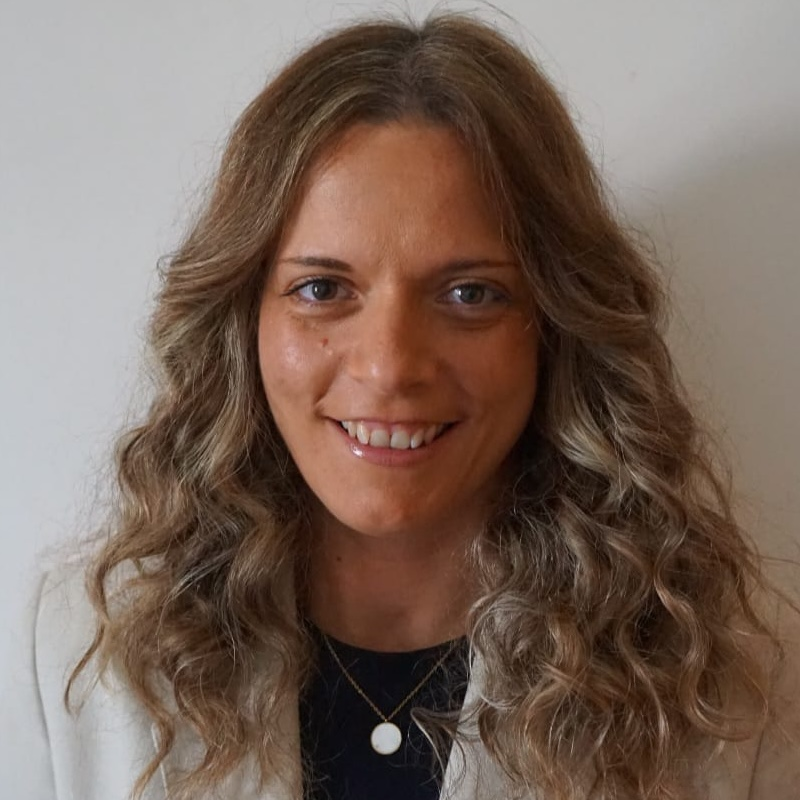
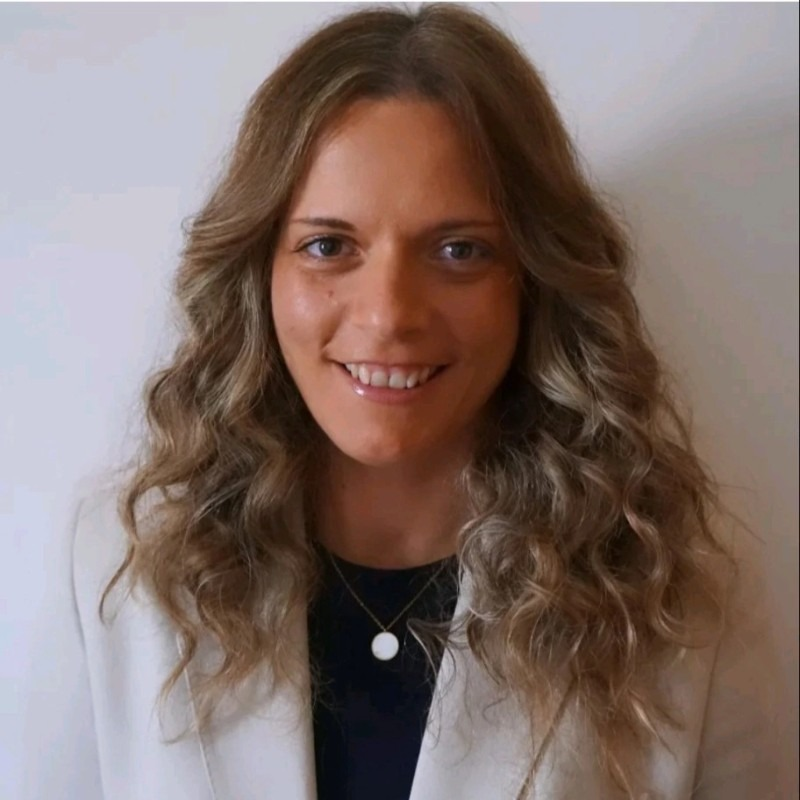
mentores

diff --git a/index.html b/index.html
@@ -235,10 +235,287 @@
 
 
   <!-- Secção Mentores -->
-  <div class="mentors-section" id="mentors">
-    <h1 style="color: #01301F; text-align: center; padding: 50px 20px; font-size: 2.5rem; margin-bottom: 0;">Mentores
-    </h1>
-    <h3 style="color: #01301F; text-align: center; margin-bottom: 50px;">Em breve!</h3>
+  <div class="mentors-section" id="mentors" style="text-align: center; padding: 50px 20px;">
+    <h1 style="color: #01301F; font-size: 2.5rem; margin-bottom: 40px;">Mentores</h1>
+
+    <div class="team-grid"
+      style="display: flex; justify-content: center; gap: 20px; flex-wrap: wrap; max-width: 1200px; margin: 0 auto;">
+      <!-- Mentors Row 1 -->
+      <div class="polaroid">
+        <div class="photo-container">
+          <a href="https://www.linkedin.com/in/vcpinto/" target="_blank" class="linkedin-photo-link">
+            <img src="assets/img/mentores/Viviana_Pinto.jpeg" alt="Viviana Correia Pinto">
+            <div class="hover-overlay">
+              <i class="fab fa-linkedin"></i>
+            </div>
+          </a>
+        </div>
+        <div class="description">
+          <strong>Viviana Correia Pinto</strong><br>
+          Invited Professor @ Porto Business School
+        </div>
+      </div>
+      <div class="polaroid">
+        <div class="photo-container">
+          <a href="https://www.linkedin.com/in/bruno-primo/" target="_blank" class="linkedin-photo-link">
+            <img src="assets/img/mentores/Bruno_Primo.jpg" alt="Bruno Primo Diniz">
+            <div class="hover-overlay">
+              <i class="fab fa-linkedin"></i>
+            </div>
+          </a>
+        </div>
+        <div class="description">
+          <strong>Bruno Primo Diniz</strong><br>
+          Project & Management Control Lead @ MEXT: Mota-Engil Next
+        </div>
+      </div>
+      <div class="polaroid">
+        <div class="photo-container">
+          <a href="https://www.linkedin.com/in/henrique-manuel-rocha-bb847858/" target="_blank"
+            class="linkedin-photo-link">
+            <img src="assets/img/mentores/Henrique_Rocha.jpg" alt="Henrique Manuel Rocha">
+            <div class="hover-overlay">
+              <i class="fab fa-linkedin"></i>
+            </div>
+          </a>
+        </div>
+        <div class="description">
+          <strong>Henrique Manuel Rocha</strong><br>
+          Business Manager @ Intuitivo
+        </div>
+      </div>
+      <div class="polaroid">
+        <div class="photo-container">
+          <a href="https://www.linkedin.com/in/gmparedes/" target="_blank" class="linkedin-photo-link">
+            <img src="assets/img/mentores/Guilherme_Paredes.jpg" alt="Guilherme Moura Paredes">
+            <div class="hover-overlay">
+              <i class="fab fa-linkedin"></i>
+            </div>
+          </a>
+        </div>
+        <div class="description">
+          <strong>Guilherme Moura Paredes</strong><br>
+          Project Manager @ Interventional Systems
+        </div>
+      </div>
+      <div class="polaroid">
+        <div class="photo-container">
+          <a href="https://www.linkedin.com/in/marcoscaetanoramalho" target="_blank" class="linkedin-photo-link">
+            <img src="assets/img/mentores/Marcos_Ramalho.png" alt="Marcos Ramalho">
+            <div class="hover-overlay">
+              <i class="fab fa-linkedin"></i>
+            </div>
+          </a>
+        </div>
+        <div class="description">
+          <strong>Marcos Ramalho</strong><br>
+          Strategic Project Manager @ Siemens Energy
+        </div>
+      </div>
+
+      <!-- Mentors Row 2 -->
+      <div class="polaroid">
+        <div class="photo-container">
+          <a href="https://www.linkedin.com/in/joaquim-bruges-2b2220bb/" target="_blank" class="linkedin-photo-link">
+            <img src="assets/img/mentores/Joaquim_Bruges.jpg" alt="Joaquim Bruges">
+            <div class="hover-overlay">
+              <i class="fab fa-linkedin"></i>
+            </div>
+          </a>
+        </div>
+        <div class="description">
+          <strong>Joaquim Bruges</strong><br>
+          Senior Project Manager @ Closer Consulting
+        </div>
+      </div>
+      <div class="polaroid">
+        <div class="photo-container">
+          <a href="https://www.linkedin.com/in/inesdaribeiro/" target="_blank" class="linkedin-photo-link">
+            <img src="assets/img/mentores/Ines_Ribeiro.png" alt="Inês Ribeiro">
+            <div class="hover-overlay">
+              <i class="fab fa-linkedin"></i>
+            </div>
+          </a>
+        </div>
+        <div class="description">
+          <strong>Inês Ribeiro</strong><br>
+          Assurance Associate @ PwC Luxembourg
+        </div>
+      </div>
+      <div class="polaroid">
+        <div class="photo-container">
+          <a href="https://www.linkedin.com/in/lararamos1706/" target="_blank" class="linkedin-photo-link">
+            <img src="assets/img/mentores/Lara_Ramos.png" alt="Lara Ramos">
+            <div class="hover-overlay">
+              <i class="fab fa-linkedin"></i>
+            </div>
+          </a>
+        </div>
+        <div class="description">
+          <strong>Lara Ramos</strong><br>
+          Assurance Associate @ PwC Luxembourg
+        </div>
+      </div>
+      <div class="polaroid">
+        <div class="photo-container">
+          <a href="https://www.linkedin.com/in/luismalheirodasilva/" target="_blank" class="linkedin-photo-link">
+            <img src="assets/img/mentores/Luis_Silva.png" alt="Luís Carvalho Silva">
+            <div class="hover-overlay">
+              <i class="fab fa-linkedin"></i>
+            </div>
+          </a>
+        </div>
+        <div class="description">
+          <strong>Luís Carvalho Silva</strong><br>
+          Business Intelligence Analyst @ Kantar
+        </div>
+      </div>
+      <div class="polaroid">
+        <div class="photo-container">
+          <a href="https://www.linkedin.com/in/diana-cristina-ferreira/" target="_blank" class="linkedin-photo-link">
+            <img src="assets/img/mentores/Diana_Ferreira.png" alt="Diana Cristina Ferreira">
+            <div class="hover-overlay">
+              <i class="fab fa-linkedin"></i>
+            </div>
+          </a>
+        </div>
+        <div class="description">
+          <strong>Diana Cristina Ferreira</strong><br>
+          Junior Customer Support @ DigestAid
+        </div>
+      </div>
+
+      <!-- Mentors Row 3 -->
+      <div class="polaroid">
+        <div class="photo-container">
+          <a href="https://www.linkedin.com/in/tiagommaia/" target="_blank" class="linkedin-photo-link">
+            <img src="assets/img/mentores/Tiago_Maia.jpg" alt="Tiago Maia">
+            <div class="hover-overlay">
+              <i class="fab fa-linkedin"></i>
+            </div>
+          </a>
+        </div>
+        <div class="description">
+          <strong>Tiago Maia</strong><br>
+          Partnership Coordinator @ Grupo Lionesa
+        </div>
+      </div>
+      <div class="polaroid">
+        <div class="photo-container">
+          <a href="https://www.linkedin.com/in/silasmoreira/" target="_blank" class="linkedin-photo-link">
+            <img src="assets/img/mentores/Silas_Moreira.png" alt="Silas Moreira">
+            <div class="hover-overlay">
+              <i class="fab fa-linkedin"></i>
+            </div>
+          </a>
+        </div>
+        <div class="description">
+          <strong>Silas Moreira</strong><br>
+          Product Manager @ Constellation Automotive
+        </div>
+      </div>
+      <div class="polaroid">
+        <div class="photo-container">
+          <a href="https://www.linkedin.com/in/diogo-agra-6ab3a0236/" target="_blank" class="linkedin-photo-link">
+            <img src="assets/img/mentores/Diogo_Agra.png" alt="Diogo Agra">
+            <div class="hover-overlay">
+              <i class="fab fa-linkedin"></i>
+            </div>
+          </a>
+        </div>
+        <div class="description">
+          <strong>Diogo Agra</strong><br>
+          Business Analyst @ LTP Labs
+        </div>
+      </div>
+      <div class="polaroid">
+        <div class="photo-container">
+          <a href="https://www.linkedin.com/in/davidpfalves/" target="_blank" class="linkedin-photo-link">
+            <img src="assets/img/mentores/David_Alves.jpg" alt="David Alves">
+            <div class="hover-overlay">
+              <i class="fab fa-linkedin"></i>
+            </div>
+          </a>
+        </div>
+        <div class="description">
+          <strong>David Alves</strong><br>
+          Seed Investor & Business Angel @ Core Angels
+        </div>
+      </div>
+      <div class="polaroid">
+        <div class="photo-container">
+          <a href="https://www.linkedin.com/in/miguellunet/" target="_blank" class="linkedin-photo-link">
+            <img src="assets/img/mentores/Miguel_Lunet.png" alt="Miguel Lunet">
+            <div class="hover-overlay">
+              <i class="fab fa-linkedin"></i>
+            </div>
+          </a>
+        </div>
+        <div class="description">
+          <strong>Miguel Lunet</strong><br>
+          Researcher @ INESC TEC
+        </div>
+      </div>
+
+      <!-- Mentors Row 4 -->
+      <div class="polaroid">
+        <div class="photo-container">
+          <a href="https://www.linkedin.com/in/albertocostapt/" target="_blank" class="linkedin-photo-link">
+            <img src="assets/img/mentores/Alberto_Costa.png" alt="Alberto Costa">
+            <div class="hover-overlay">
+              <i class="fab fa-linkedin"></i>
+            </div>
+          </a>
+        </div>
+        <div class="description">
+          <strong>Alberto Costa</strong><br>
+          CEO @ Liderteam
+        </div>
+      </div>
+      <div class="polaroid">
+        <div class="photo-container">
+          <a href="https://www.linkedin.com/in/alice-cordeiro/" target="_blank" class="linkedin-photo-link">
+            <img src="assets/img/mentores/Alice_Cordeiro.png" alt="Alice Cordeiro">
+            <div class="hover-overlay">
+              <i class="fab fa-linkedin"></i>
+            </div>
+          </a>
+        </div>
+        <div class="description">
+          <strong>Alice Agostinho Cordeiro</strong><br>
+          Analyst Consultant @ Capgemini
+        </div>
+      </div>
+      <div class="polaroid">
+        <div class="photo-container">
+          <a href="https://www.linkedin.com/in/pedrocardoso00/" target="_blank" class="linkedin-photo-link">
+            <img src="assets/img/mentores/Pedro_Cardoso.png" alt="Pedro Cardoso">
+            <div class="hover-overlay">
+              <i class="fab fa-linkedin"></i>
+            </div>
+          </a>
+        </div>
+        <div class="description">
+          <strong>Pedro Cardoso</strong><br>
+          IT Strategy consultant @ Zertive
+        </div>
+      </div>
+      <div class="polaroid">
+        <div class="photo-container">
+          <a href="https://www.linkedin.com/in/joaombranco/" target="_blank" class="linkedin-photo-link">
+            <img src="assets/img/mentores/Joao_Branco.png" alt="João Branco">
+            <div class="hover-overlay">
+              <i class="fab fa-linkedin"></i>
+            </div>
+          </a>
+        </div>
+        <div class="description">
+          <strong>João Branco</strong><br>
+          Global Marketing Analytics Graduate @ Red Bull
+        </div>
+      </div>
+
+    </div>
   </div>
 
 
